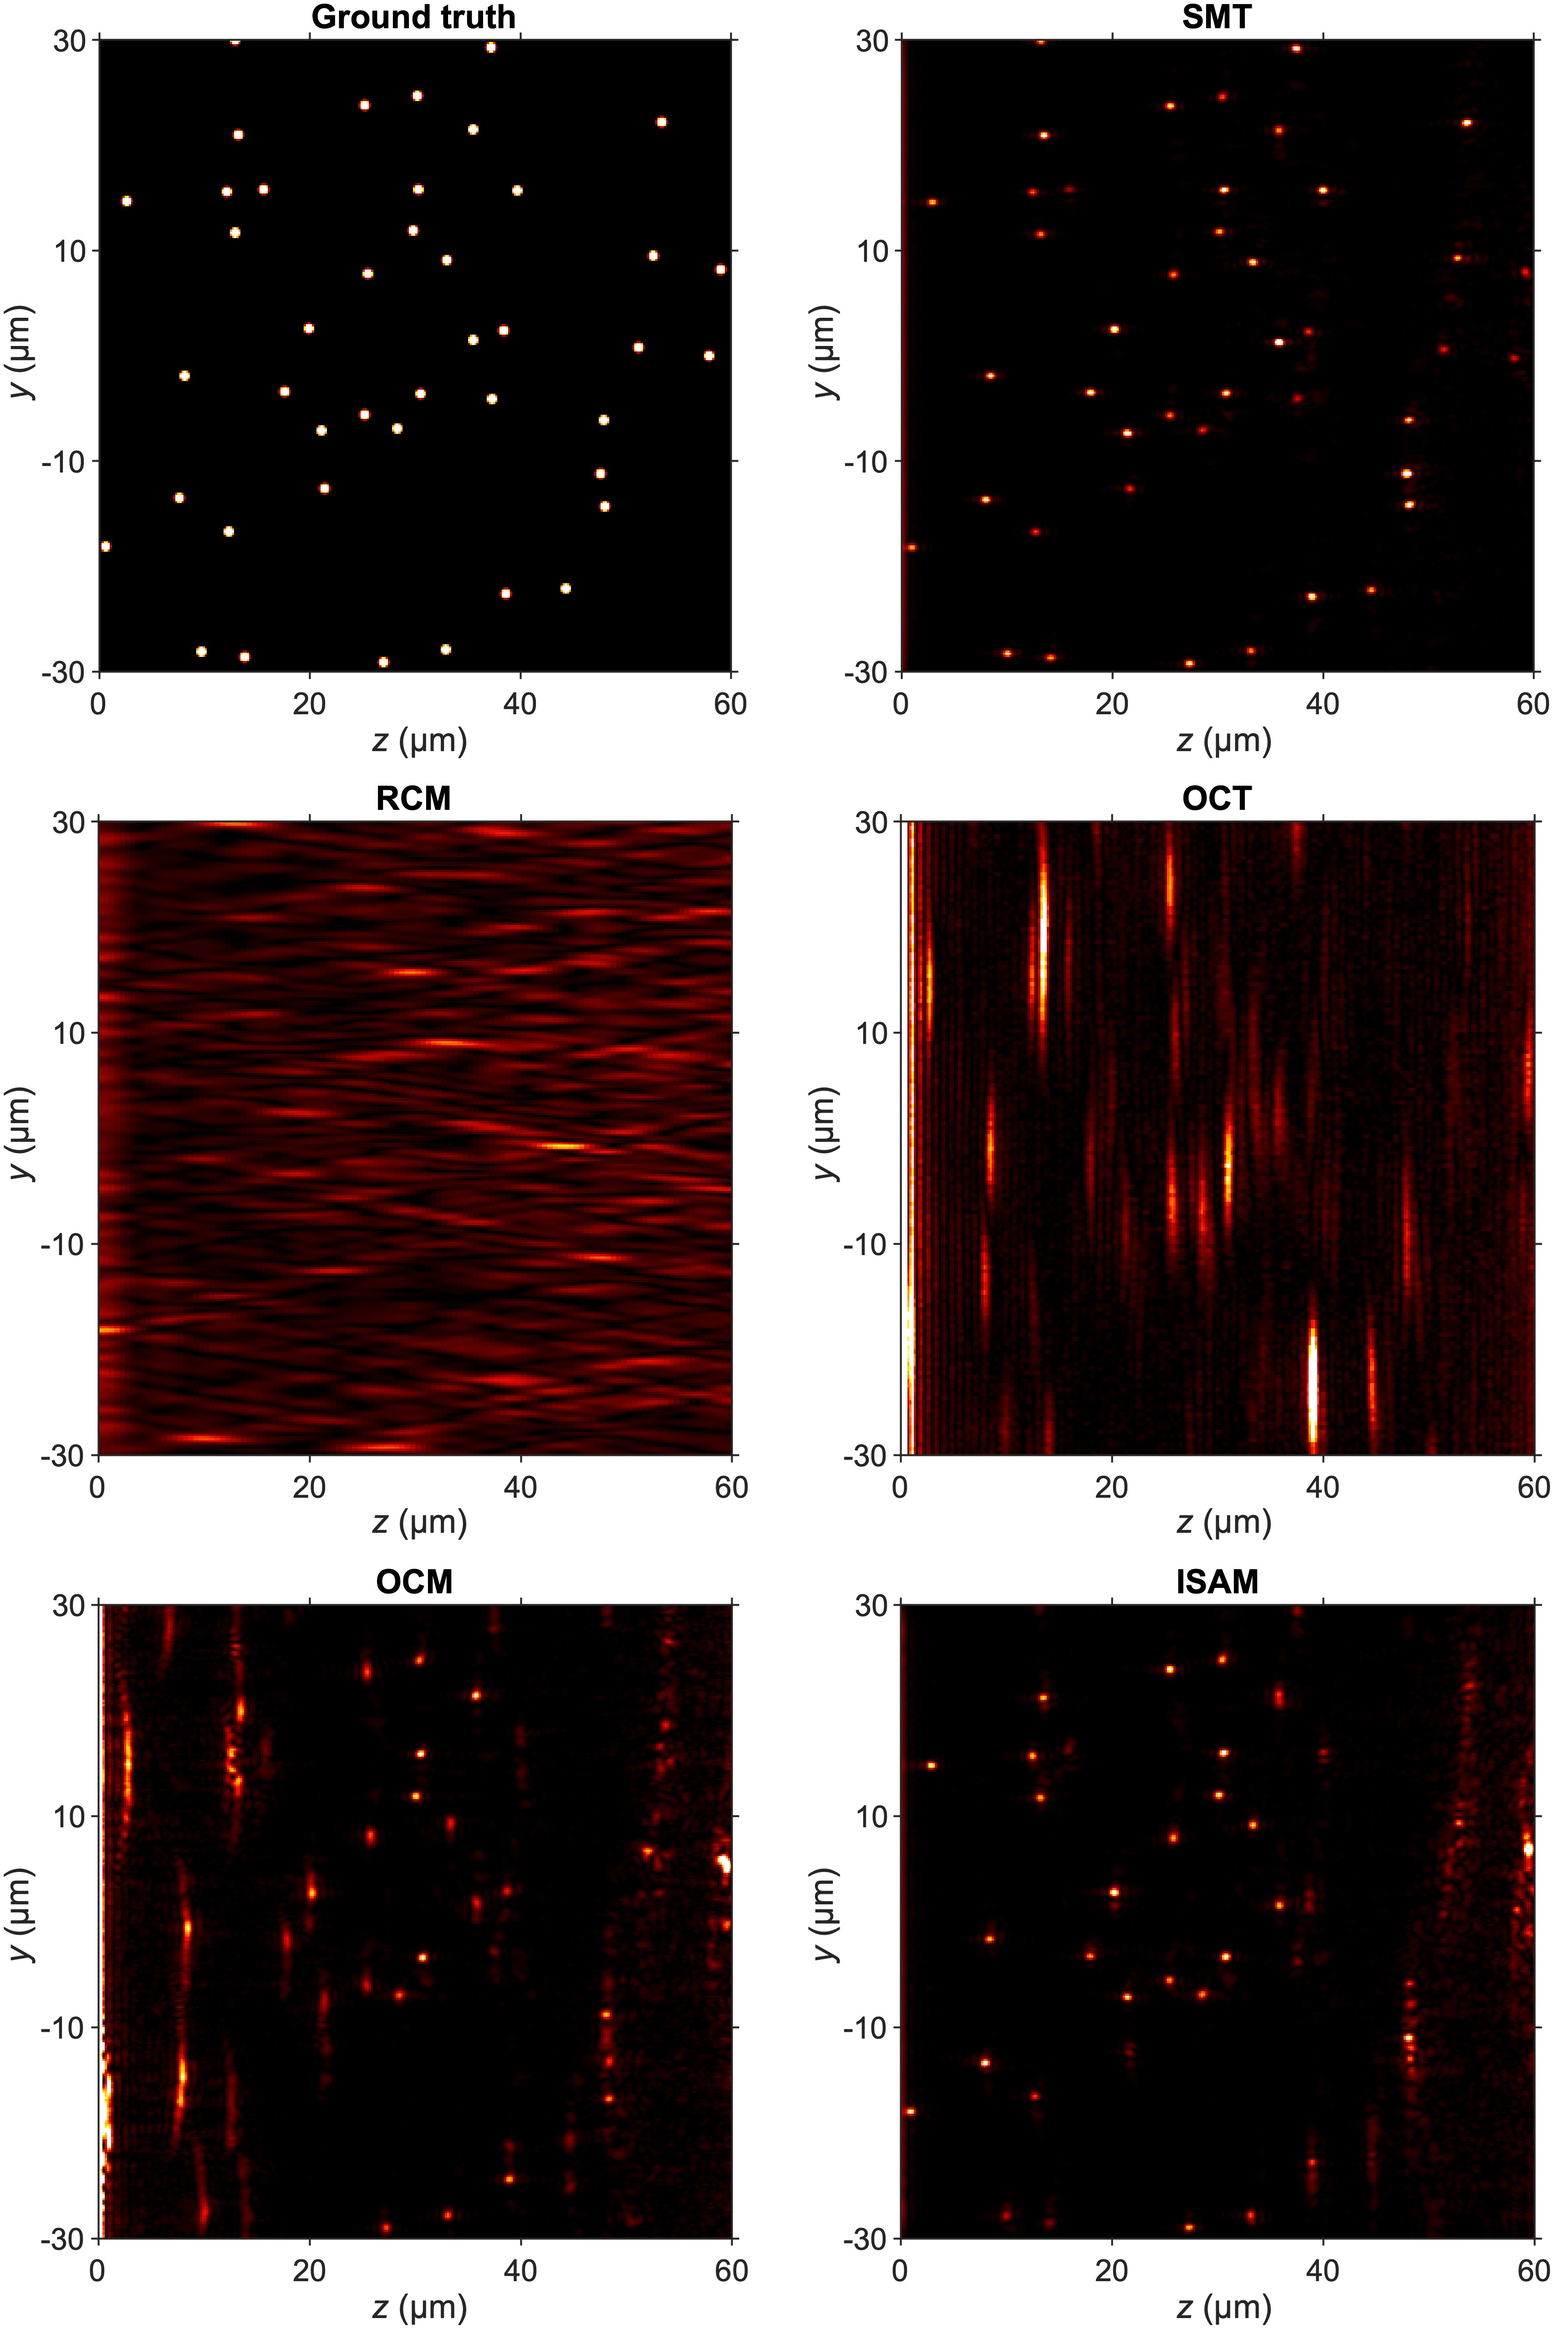
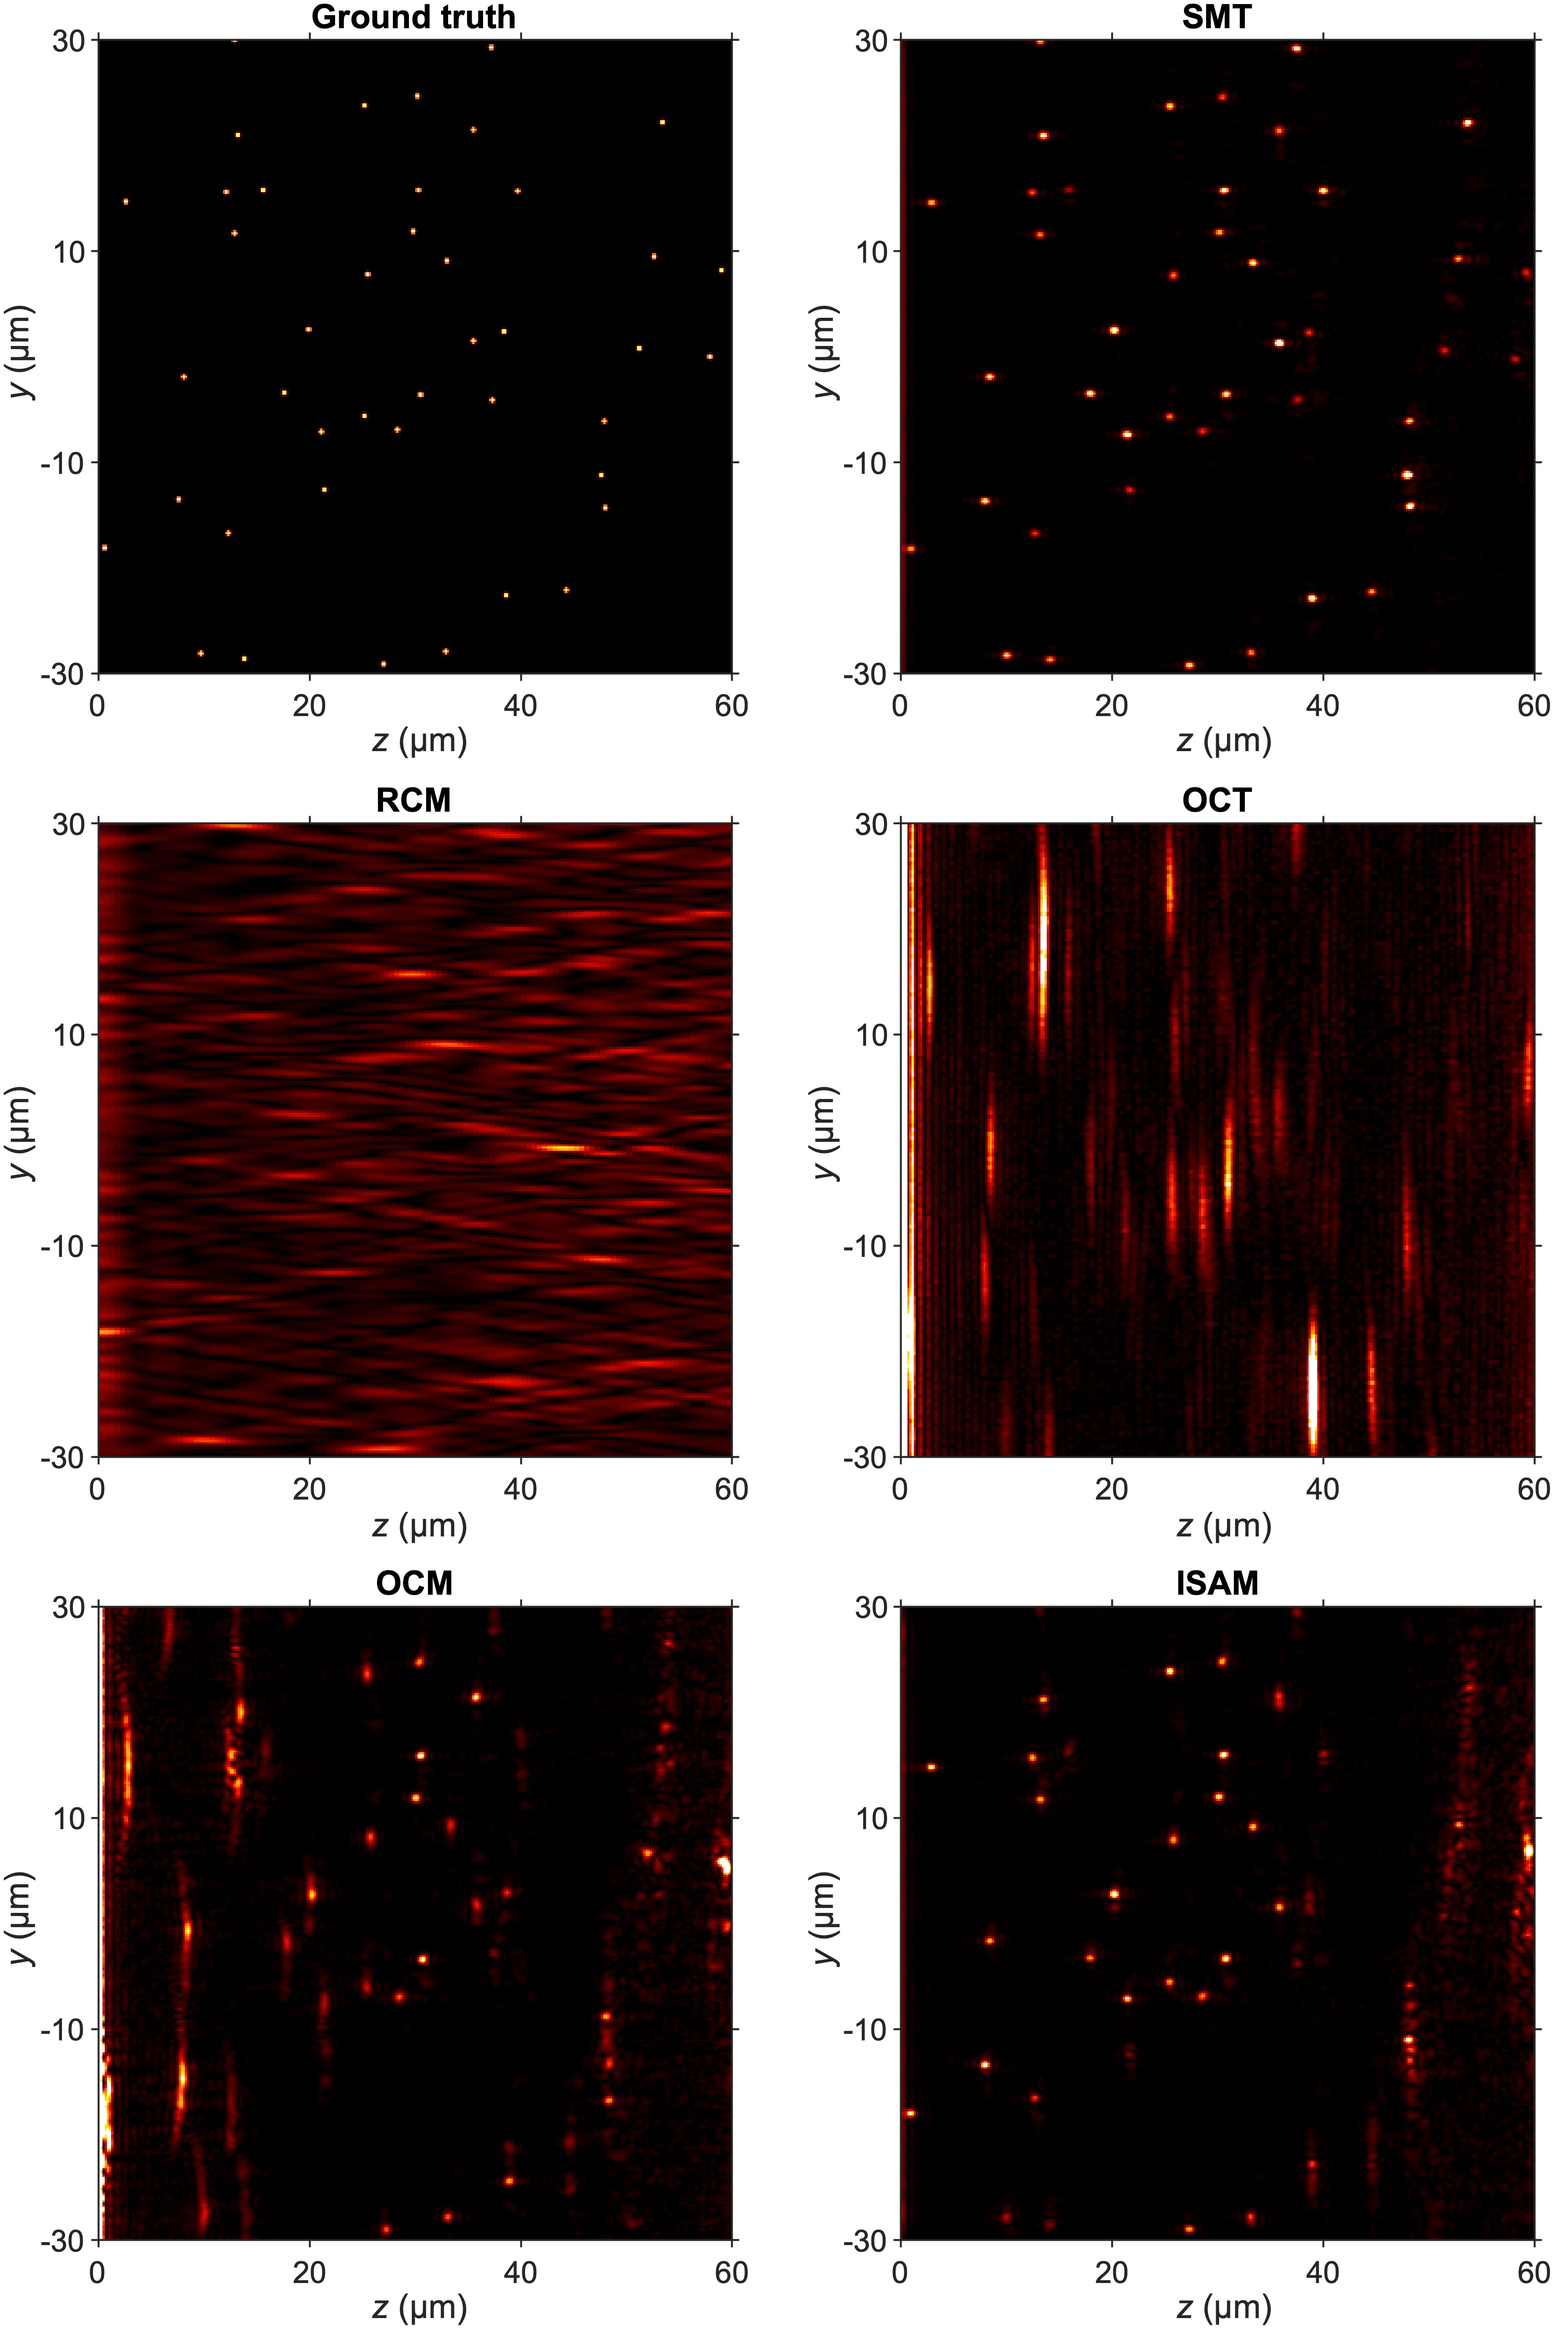
Update the small system figure

diff --git a/scripts/plotting/plot_all_images.m b/scripts/plotting/plot_all_images.m
@@ -22,12 +22,15 @@ switch system_idx
     case 0
         data_dir = fullfile('.', 'data', 'small_system');
         figs_dir = fullfile('.', 'figs', 'small_system', 'reconstructed_images');
+        target_diam = 0.5;
     case 1
         data_dir = fullfile('.', 'data', 'large_system');
         figs_dir = fullfile('.', 'figs', 'large_system', 'reconstructed_images');
+        target_diam = 1.0;
     case 2
         data_dir = fullfile('.', 'data', 'large_system_no_weak');
         figs_dir = fullfile('.', 'figs', 'large_system_no_weak', 'reconstructed_images');
+        target_diam = 1.0;
     otherwise
         error("Undefined system index!")
 end
